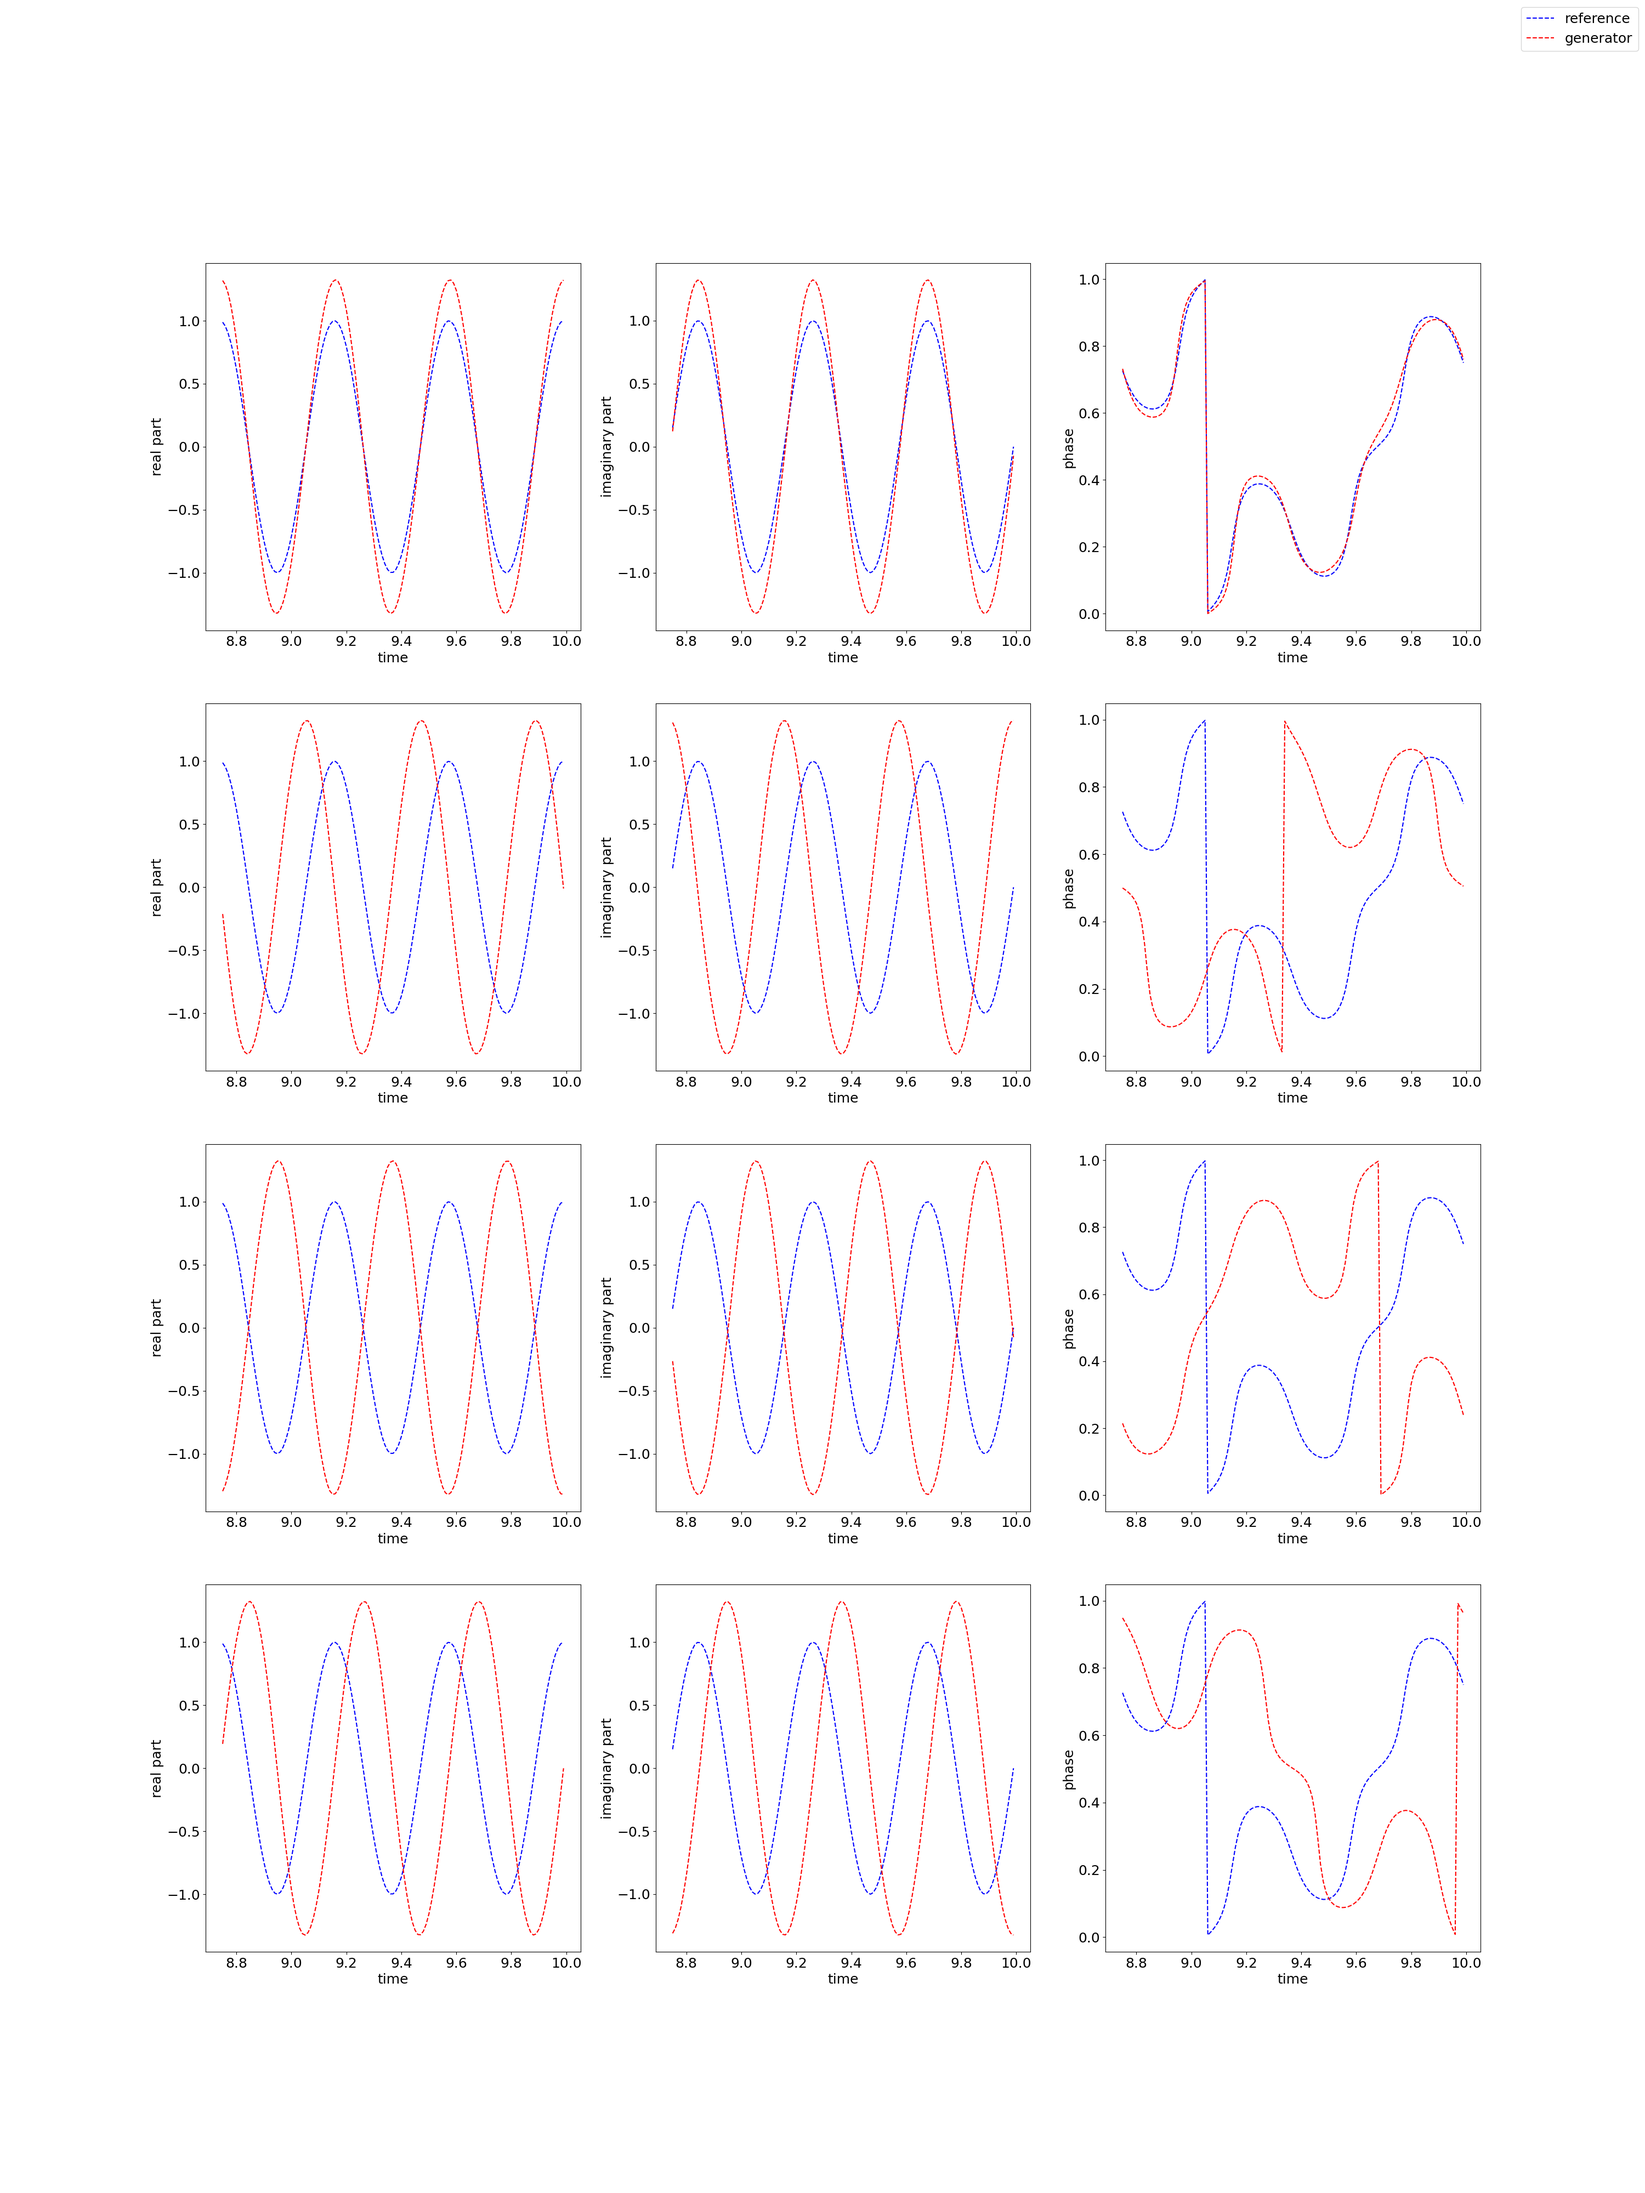
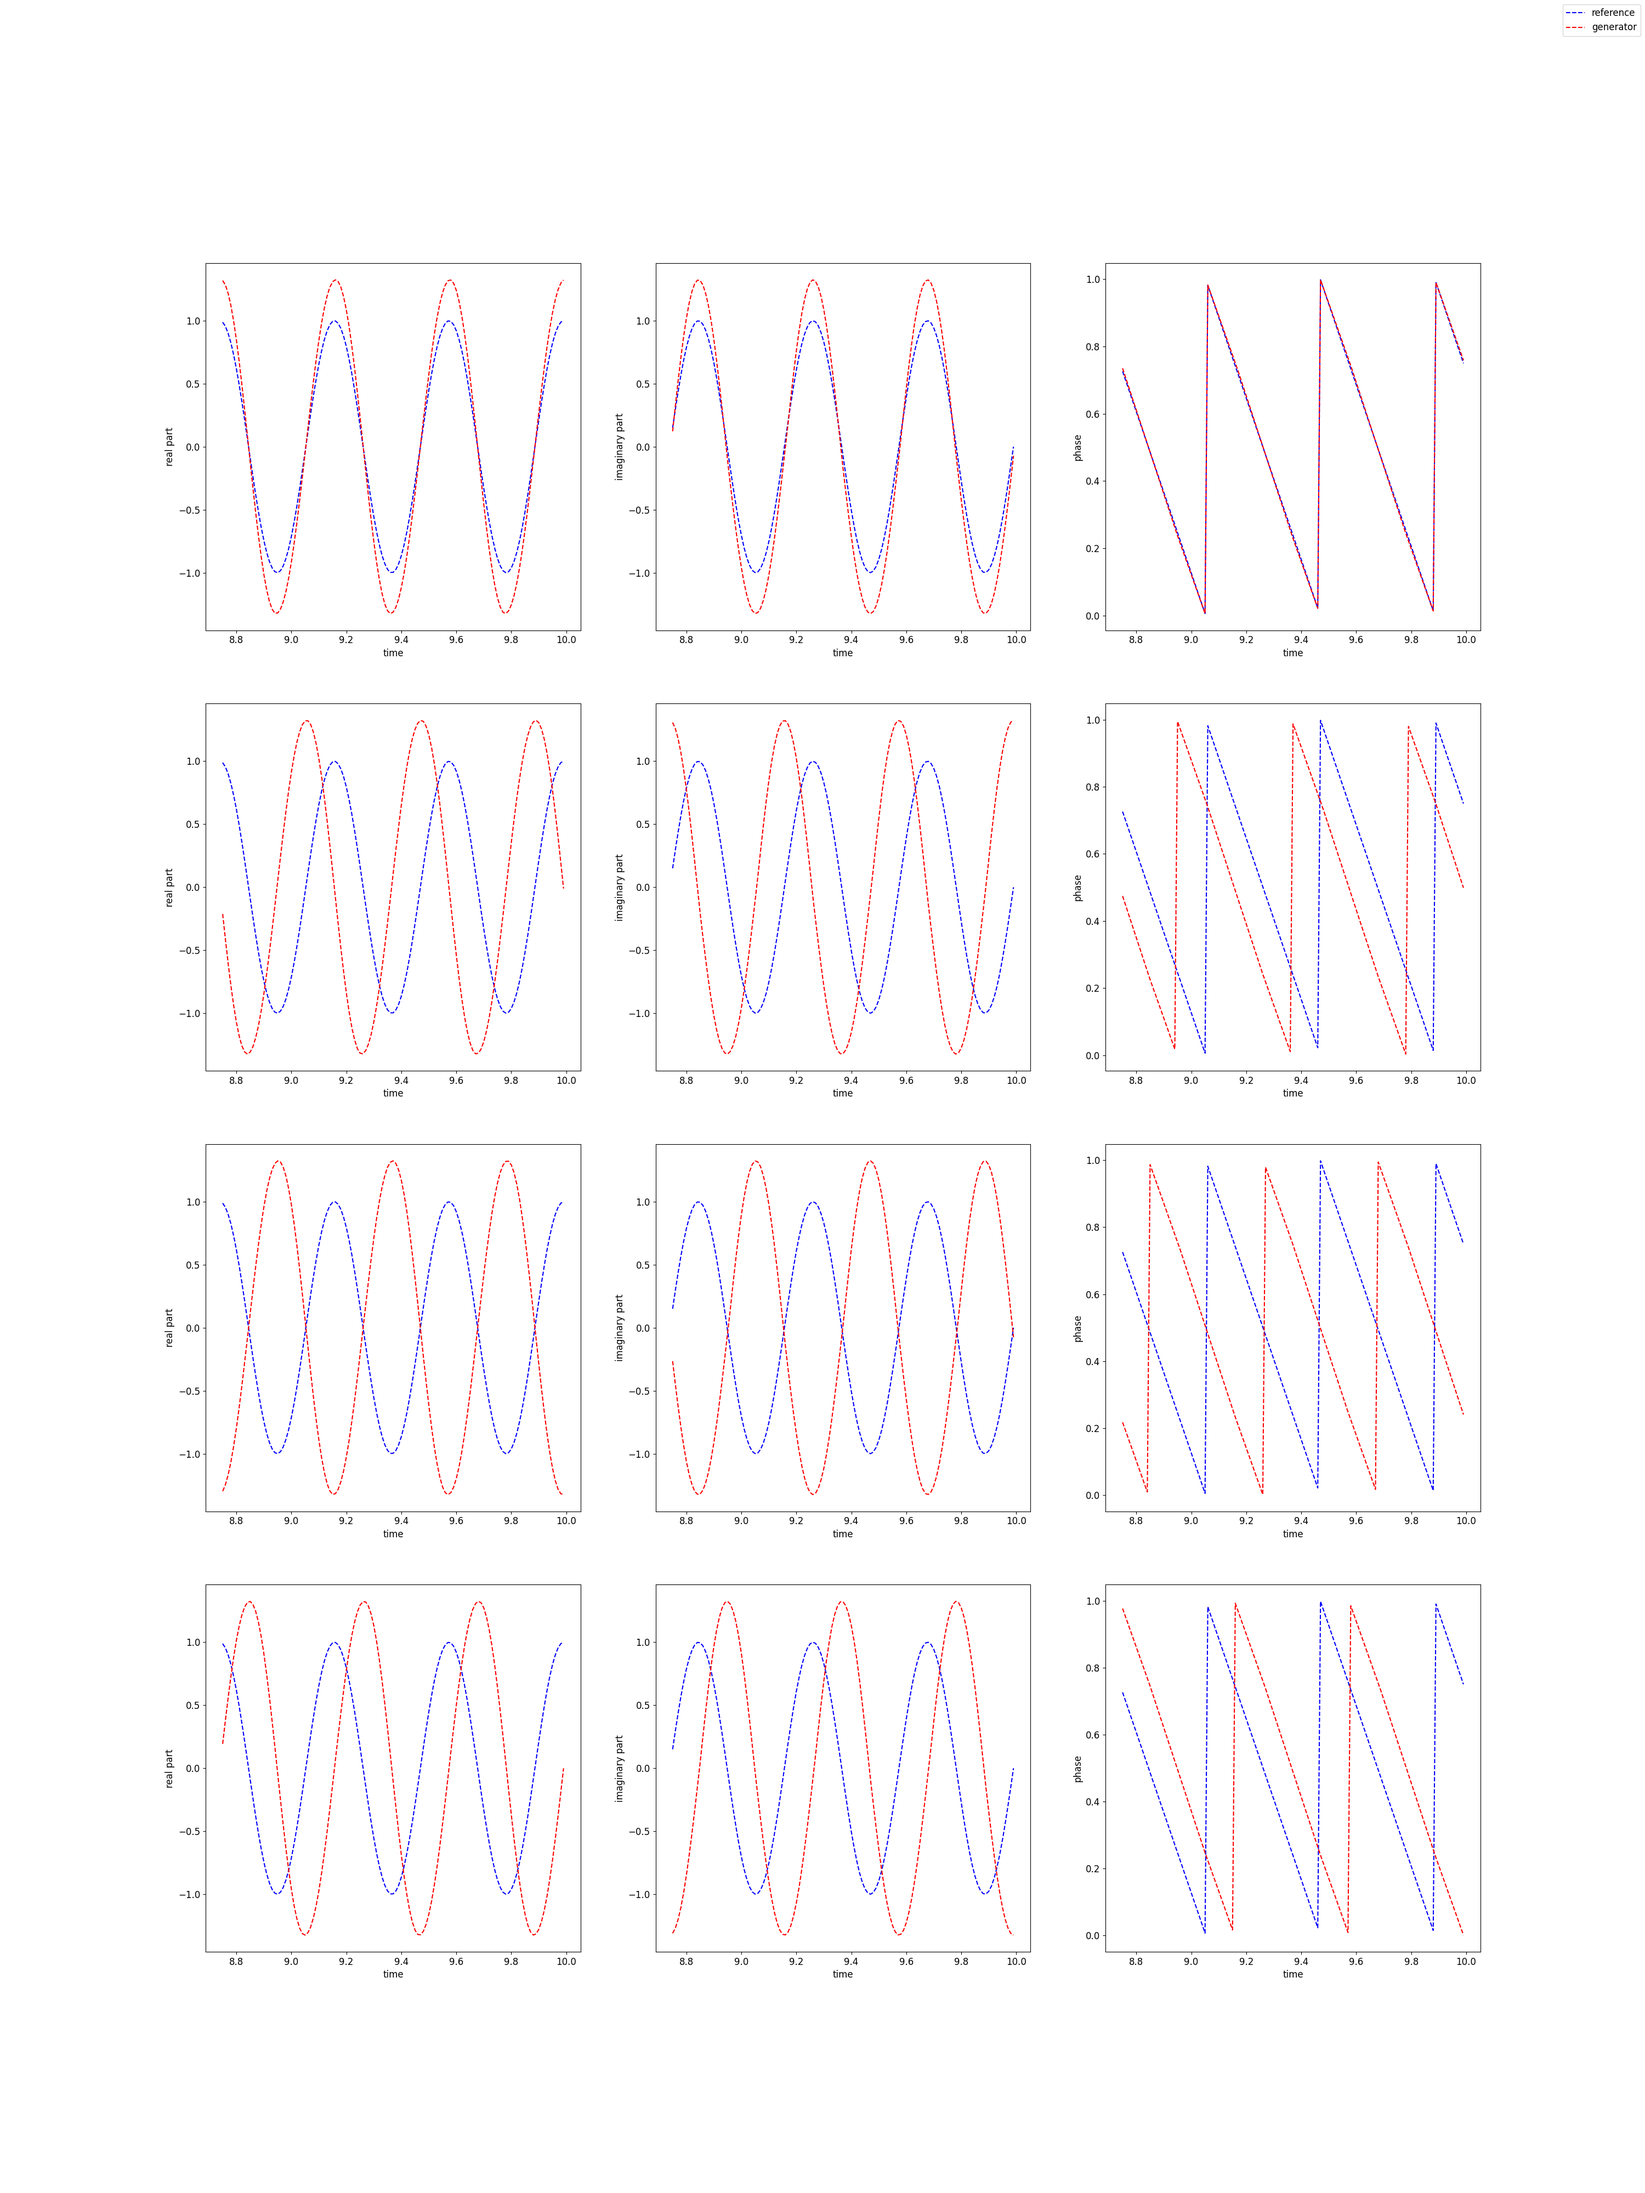
commit sync

diff --git a/oscillator_v2.py b/oscillator_v2.py
@@ -277,7 +277,7 @@ def test_cpg(
         Z1.append(z1.copy())
     Z1 = np.stack(Z1, 0)
     Z2 = np.stack(Z2, 0)
-    plt.rcParams["font.size"] = "18"
+    plt.rcParams["font.size"] = "12"
     for j in range(4):
         fig, axes = plt.subplots(4,3,figsize=(30, 40))
         steps = N // 8
@@ -286,7 +286,7 @@ def test_cpg(
             axes[i][1].plot(T[-steps:], Z1[-steps:, i + 4 * 4 + j * 4], '--b', label = 'reference') 
             axes[i][2].plot(
                 T[-steps:], 
-                (1.0 + np.arctan2(Z1[-steps:, i], Z1[-steps:, i + 4 * 4 + j * 4]) / np.pi) / 2,
+                (1.0 + np.arctan2(Z1[-steps:, i + j * 4], Z1[-steps:, i + 4 * 4 + j * 4]) / np.pi) / 2,
                 '--b',
                 label = 'reference'
             )
@@ -294,7 +294,7 @@ def test_cpg(
             axes[i][1].plot(T[-steps:], Z2[-steps:, i + 4 * 4 + j * 4], '--r', label = 'generator')
             axes[i][2].plot(
                 T[-steps:],
-                (1.0 + np.arctan2(Z2[-steps:, i], Z2[-steps:, i + 4 * 4 + j * 4]) / np.pi) / 2,
+                (1.0 + np.arctan2(Z2[-steps:, i + j * 4], Z2[-steps:, i + 4 * 4 + j * 4]) / np.pi) / 2,
                 '--r',
                 label = 'generator'
             )
